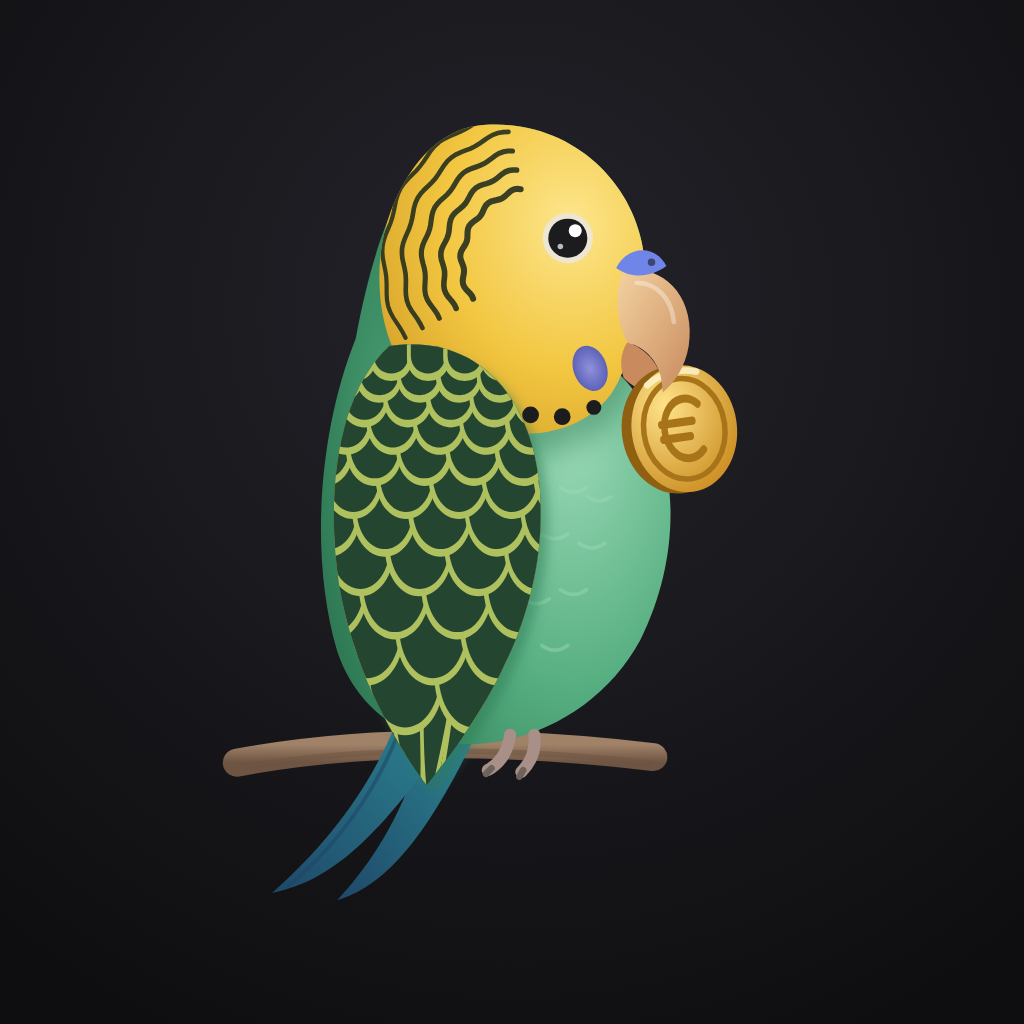
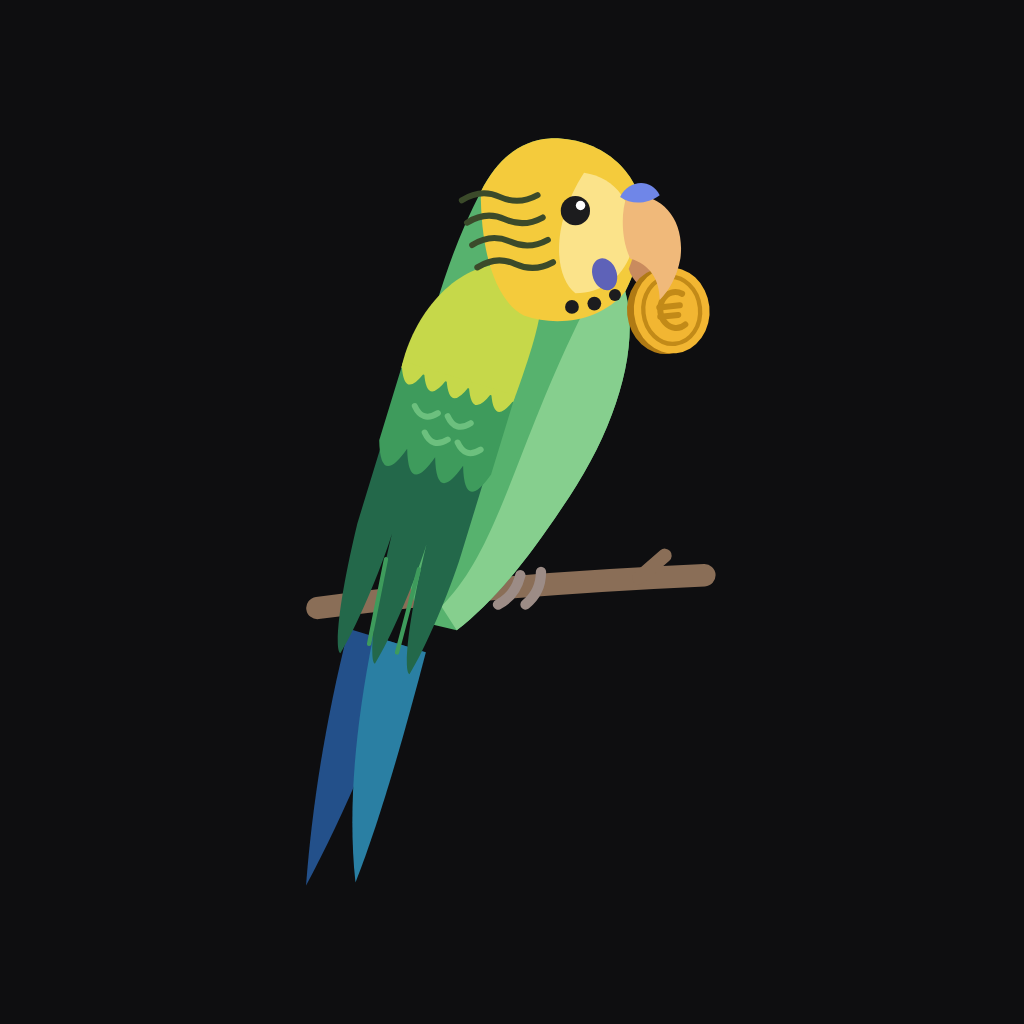
fix: icone dal nuovo disegno, date future, ordine Statistiche dopo il riavvio
- assets/images allineati ai sorgenti in assets/budgie (nuovo pappagallino);
  splash e favicon rigenerati; indaco #3E58C5 per icona Android e splash
- Spese, entrate e trasferimenti si possono inserire anche con data futura
- Statistiche: l'ordine salvato arriva dopo il primo render e veniva ignorato
  (il componente riordinabile considerava solo sezioni aggiunte o tolte);
  ora con le stesse sezioni vale l'ordine ricevuto

Changed region(s): [[0.2188, 0.0938, 0.7188, 0.875]]

diff --git a/src/components/ui/reorderable-stack.tsx b/src/components/ui/reorderable-stack.tsx
@@ -76,11 +76,17 @@ export function ReorderableStack({
   const heights = useSharedValue<Heights>({});
   const [ready, setReady] = useState(false);
 
-  // Elementi aggiunti o tolti: mantiene l'ordine corrente (anche durante un
-  // trascinamento) e accoda i nuovi in fondo
+  // Stessi elementi in un altro ordine (es. l'ordine salvato che arriva dopo il
+  // primo render): vale quello delle props. Elementi aggiunti o tolti: mantiene
+  // l'ordine corrente e accoda i nuovi in fondo
   useEffect(() => {
     const next = signature ? signature.split('|') : [];
-    const current = order.get().filter((k) => next.includes(k));
+    const prev = order.get();
+    if (prev.length === next.length && next.every((k) => prev.includes(k))) {
+      order.set(next);
+      return;
+    }
+    const current = prev.filter((k) => next.includes(k));
     order.set([...current, ...next.filter((k) => !current.includes(k))]);
   }, [signature, order]);
 

diff --git a/src/components/transactions/date-chips.tsx b/src/components/transactions/date-chips.tsx
@@ -10,7 +10,7 @@ import { useTheme } from '@/hooks/use-theme';
 import { deviceLocale } from '@/i18n';
 import { Spacing } from '@/theme';
 
-/** Scelta rapida della data: Oggi, Ieri o calendario (date future escluse). */
+/** Scelta rapida della data: Oggi, Ieri o calendario (anche date future, es. spese programmate). */
 export function DateChips({
   value,
   onChange,
@@ -51,7 +51,6 @@ export function DateChips({
           value={value}
           mode="date"
           display="compact"
-          maximumDate={today}
           onValueChange={(_, d) => onChange(d)}
         />
       ) : (
@@ -62,7 +61,6 @@ export function DateChips({
             DateTimePickerAndroid.open({
               value,
               mode: 'date',
-              maximumDate: new Date(),
               onValueChange: (_, d) => onChange(d),
             })
           }>
